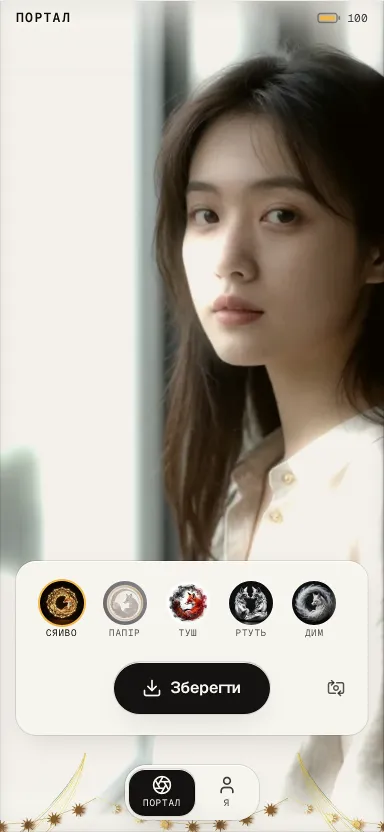
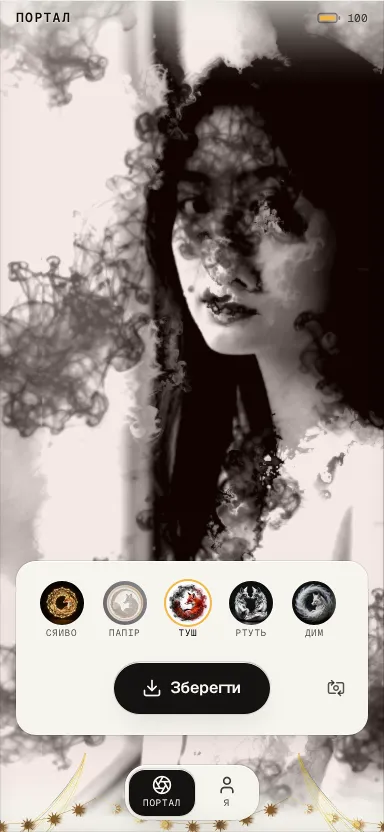
store: portal captures from the phase-2 graph; research §7 on the graph

diff --git a/docs/research/portal.md b/docs/research/portal.md
@@ -90,3 +90,28 @@ ColorOverlay/ColorGradient so a preset follows the material theme without a seco
   thumbnails), light/dark by the document theme, Save (frame) — NOTHING else; presets as data; gate = a still.
 - **Ф2** — the fps sheet on the phone (the 24 states), the cut list; the icon on the pods; store captures.
 - **Ф3** — the portal mask (MediaPipe in a Worker) as a measured experiment, shipped only if the base holds 60.
+
+## 7. Phase 2 — the graph (built 2026-09-05)
+
+The owner on phase 1: "звичайний фільтр" — a colour grade over the camera is not TouchDesigner. What makes TD
+art is the GRAPH, and pixi already ships every node of it; `apps/portal/graph.js` assembles them from data:
+
+| TD TOP | pixi node | in the preset |
+|---|---|---|
+| Feedback | two `RenderTexture`s ping-pong: the previous frame under the new one, faded, zoomed, turned | `echo {decay, zoom, rot}` |
+| Displace | `DisplacementFilter` on the camera sprite, the map a scrolling `TilingSprite` of the material's generated texture | `disp {amount, speed}` |
+| Composite | the same texture as a `TilingSprite` layer over the loop's output — `add / screen / multiply`, alpha, breathing | `mat {blend, alpha, scale, speed, breathe, rate}` |
+| Mirror | the world twice, the twin flipped and masked to one half (the right half is the source) | `mirror: "x"` |
+| LFO | every speed per second, every breath an amplitude on a rate | `speed`, `breathe/rate` |
+| post | the phase-1 filter chain on the composite | `chain` |
+
+The textures are the 11 material textures generated on the pods (`assets/tex-<id>.webp`, 512²), one per theme.
+The loop renders at CSS resolution 1 into the feedback textures (two extra passes a frame) and the screen shows
+it upscaled.
+
+Two rules learnt on the see pod, both structural:
+- **A layer with `screen`/`add` inside a feedback loop sums without bound** (six presets burnt to white, veil to
+  pure green). The loop holds only the echo and the camera; the camera enters at the preset's alpha (0.45–0.7),
+  which bounds the trail by the picture; the material composites AFTER the loop.
+- **A mask `Graphics` no preset consumes is a white rect drawn over everything** — the masks join the tree only
+  while a preset mirrors. Also: `DisplacementFilter.scale` is a `Point` (`.set(x, y)`), not a number.

diff --git a/apps/portal/RESEARCH.md b/apps/portal/RESEARCH.md
@@ -65,3 +65,11 @@ faint reflection at 512 px. Not a candidate for a fourth round.
 
 fps p50/p95 per preset × mode on the S25 Ultra at DPR 2; the camera constraint (720p30 / 1080p30); the save
 TEXTURES per theme as sprites/displacement maps over the feed; phase 3: the MediaPipe person/world mask.
+
+## Phase 2 — the graph (2026-09-05, product ff0bc32)
+
+`graph.js`: TD's TOPs from pixi's own machinery, from the preset's data — feedback (RenderTexture ping-pong),
+displacement by the material's generated texture (`assets/tex-<id>.webp`, a scrolling TilingSprite as the map),
+the same texture composited over the loop, mirror (right half as the source), LFOs per second; the phase-1 chain
+on top. Full table + the two structural rules (no screen/add inside a feedback loop; a mask Graphics not
+consumed draws white) in `docs/research/portal.md` §7. Twelve see-pod sheets judged before the push.
